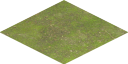
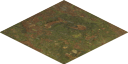
feat: sols d'enclos photo-réalistes en blocs de 8 x 8
Tous les sols d'habitat sont rendus sur des blocs de 8 x 8 cases avec des
taches de teinte, pour moins de répétition. Forêt : Ground068 (mousse et
terre) au lieu de Ground037, trop proche de la pelouse.

Claude-Session: https://claude.ai/code/session_011VCvJhVrjz836W3ZDEZDfW

diff --git a/README.md b/README.md
@@ -57,7 +57,7 @@ Puis ouvre l'adresse affichée (http://localhost:5180).
 ## Crédits
 
 - Décorations d'enclos : modèles 3D de [Poly Haven](https://polyhaven.com) (licence CC0).
-- Sols des enclos : textures photo de [ambientCG](https://ambientcg.com) (Lava003, Tiles093, Ground037, Snow013, Ground110, Ground111, Ground071, PavingStones138, Rock012, Snow015, Snow008A — licence CC0).
+- Sols : textures photo de [ambientCG](https://ambientcg.com) (licence CC0) — pelouse Grass004, allées PavingStones070, enclos Lava003, Tiles093, Ground068, Snow013, Ground110, Ground111, Ground071, PavingStones138, Rock012, Snow015, Snow008A.
 - Visiteurs et gardiens : packs « Ultimate Modular Men / Women » de [Quaternius](https://quaternius.com) (licence CC0).
 - `docs/` : document de conception et plan de construction.
 
